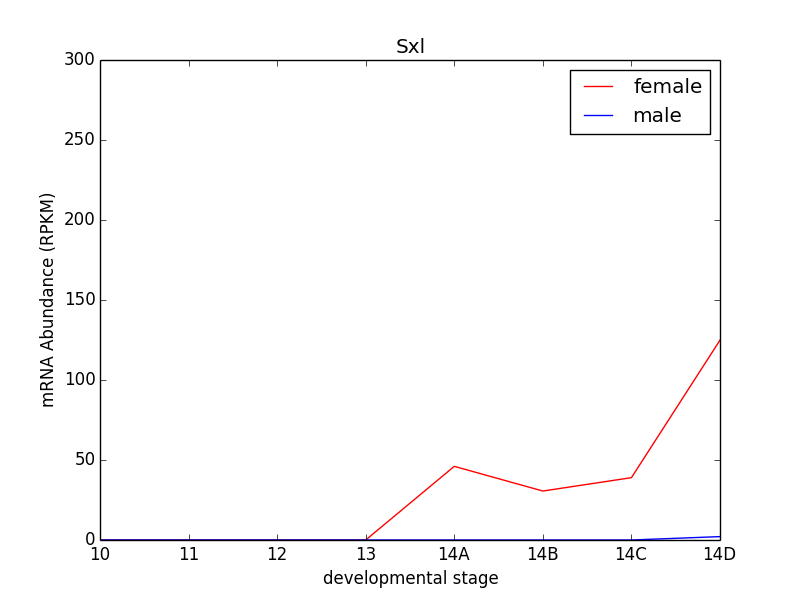
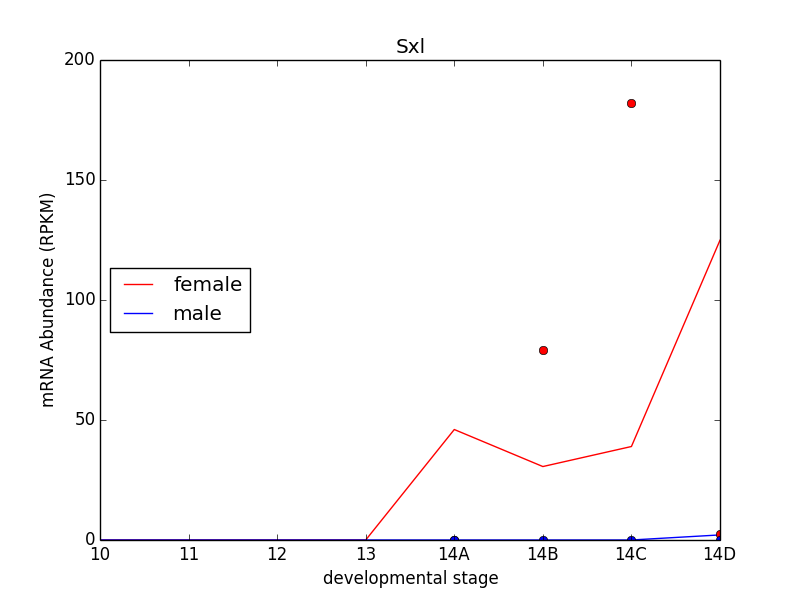
Exercise one completed

diff --git a/day3/day3-lunch/e1.py b/day3/day3-lunch/e1.py
@@ -14,9 +14,29 @@ for sample in metadata[metadata["sex"] == "female"]["sample"]:
 Sxlm=[]
 for sample in metadata[metadata["sex"] == "male"]["sample"]:
     df1=pd.read_table("~/qbb2015/stringtie/"+sample+"/t_data.ctab")
-    roi1=df["t_name"].str.contains("FBtr0331261") #grab the row interested in 
+    roi1=df["t_name"].str.contains("FBtr0331261") 
     Sxlm.append(df1[roi1]["FPKM"].values)
-#pass to plot with three commands
+
+metadata=pd.read_csv("~/qbb2015/rawdata/replicates.csv")
+Sx1=[]
+for sample in metadata[metadata["sex"] == "male"]["sample"]:
+    df2=pd.read_table("~/qbb2015/stringtie/"+sample+"/t_data.ctab")
+    roi2=df2["t_name"].str.contains("FBtr0331261") 
+    Sx1.append(df2[roi2]["FPKM"].values)
+    
+print Sx1
+#[14A, 0], [14B, 0], [14C, 0], [14D, 0])    
+Sx2=[]
+for sample in metadata[metadata["sex"] == "female"]["sample"]:
+    df2=pd.read_table("~/qbb2015/stringtie/"+sample+"/t_data.ctab")
+    roi2=df2["t_name"].str.contains("FBtr0331261") 
+    Sx2.append(df2[roi2]["FPKM"].values)
+    
+print Sx2
+
+#[14A, 0], [14B, 79.103477], [14C, 182.233475], [14D, 2.409474])
+
+    
 
 plt.figure()
 plt.title("Sxl")
@@ -24,10 +44,24 @@ plt.xlabel("developmental stage")
 plt.ylabel("mRNA Abundance (RPKM)")
 plt.plot(Sxl, color = 'r', label='female')
 plt.plot(Sxlm, color = 'b', label = 'male')
-plt.legend(['female', 'male'])
+plt.legend(['female', 'male'], loc='center left')
 xticks=['10', '11', '12', '13', '14A', '14B', '14C', '14D']
 plt.xticks (range(8), xticks)
-plt.yticks(range(0,350,50))
+
+plt.plot(4, 0, 'o', color='r')
+plt.plot(5, 79.103477, 'o', color ='r')
+plt.plot(6, 182.233475, 'o', color = 'r')
+plt.plot(7, 2.409474, 'o', color = 'r')
+
+
+plt.plot(4, 0, 'o', color='b')
+plt.plot(5, 0, 'o', color ='b')
+plt.plot(6, 0, 'o', color = 'b')
+plt.plot(7, 0, 'o', color = 'b')
 plt.savefig("Exercise1.png")
+
+plt.yticks(range(0,900,50))
+
+
 
 
